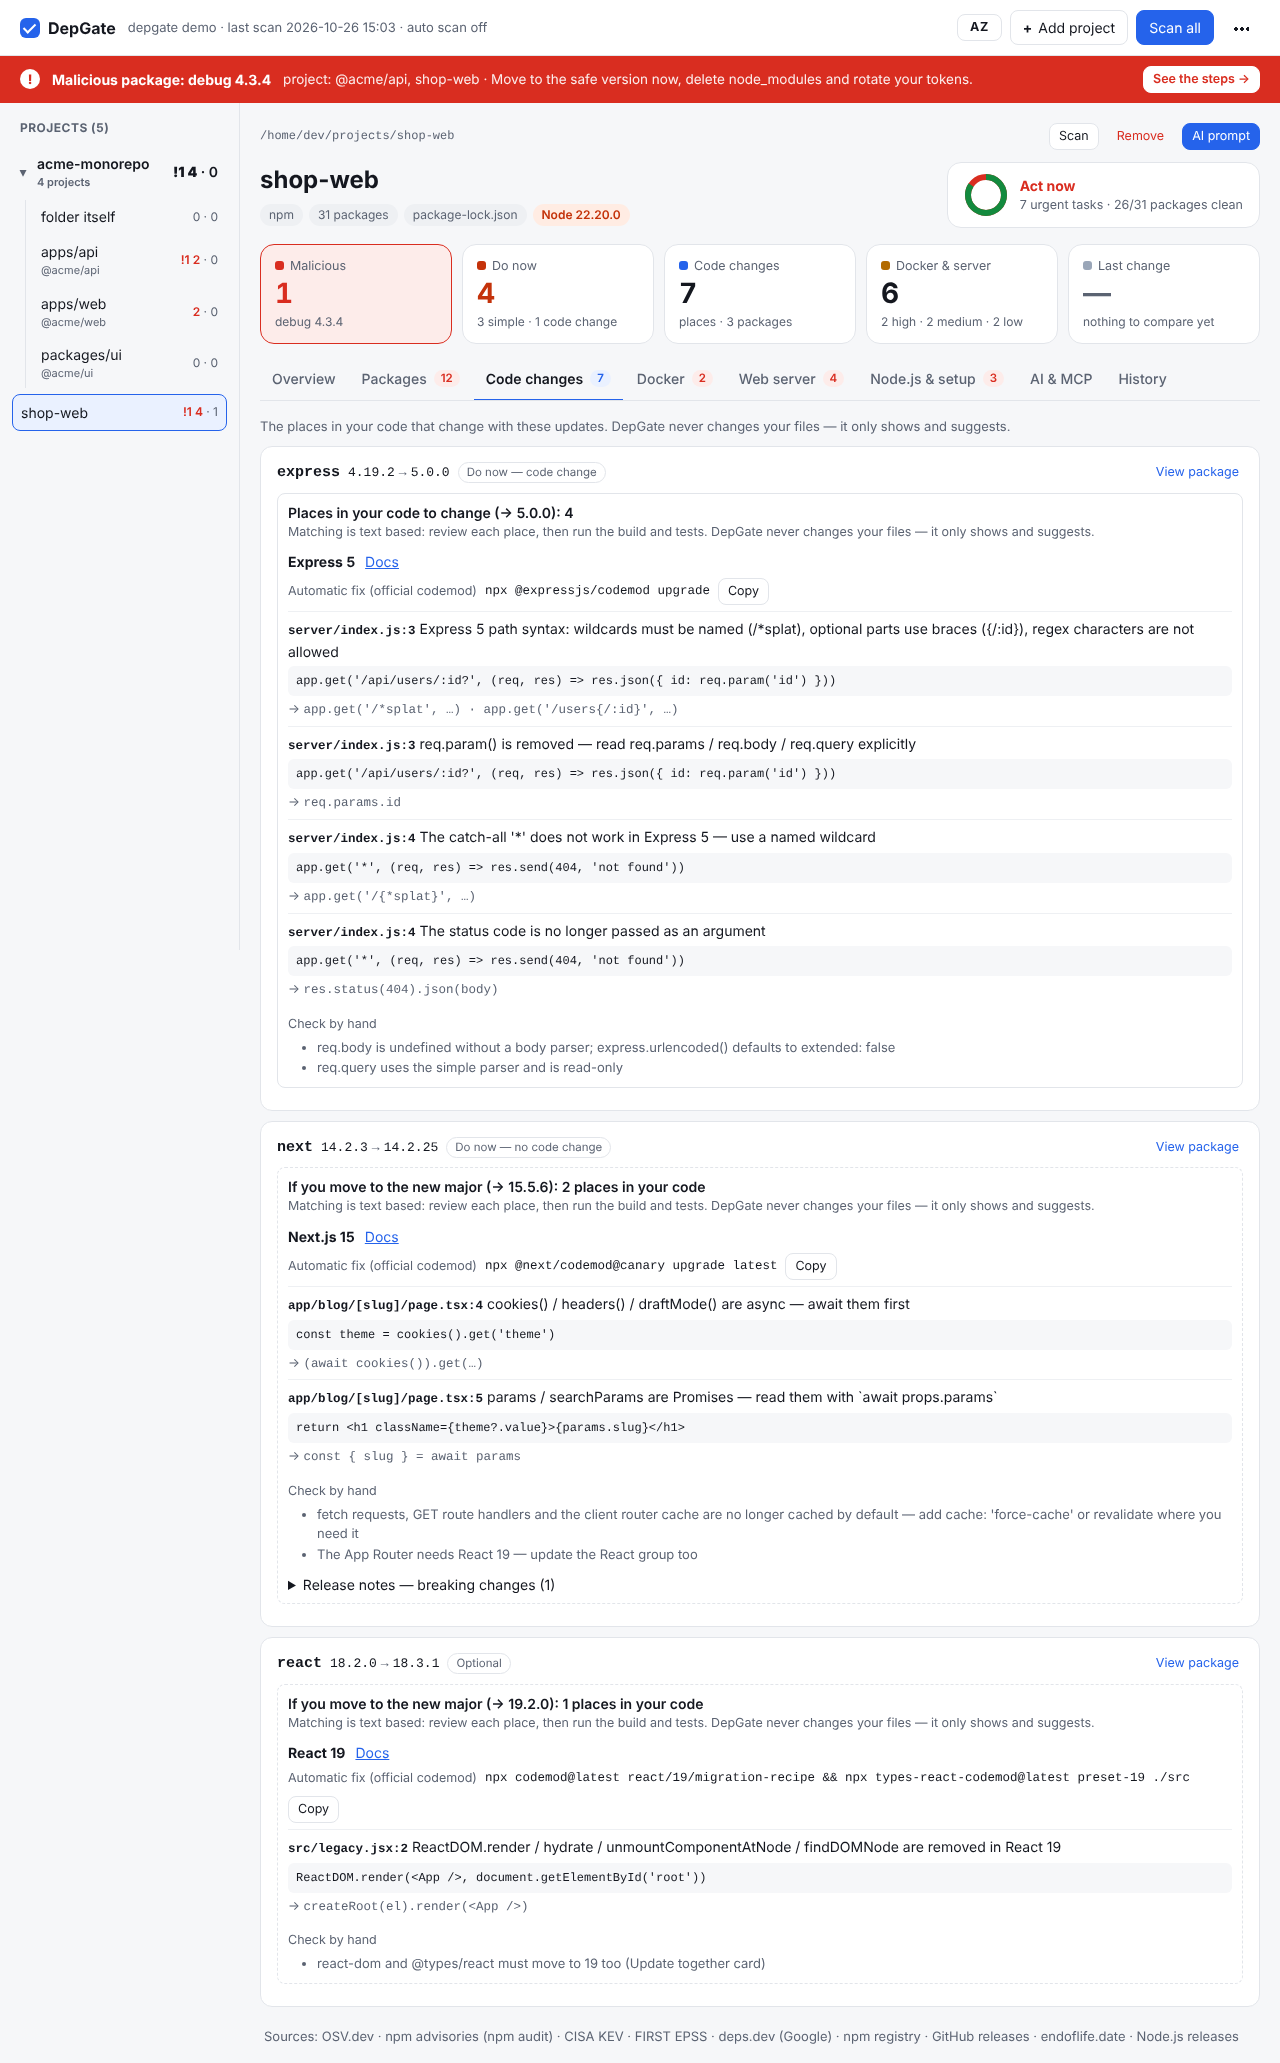
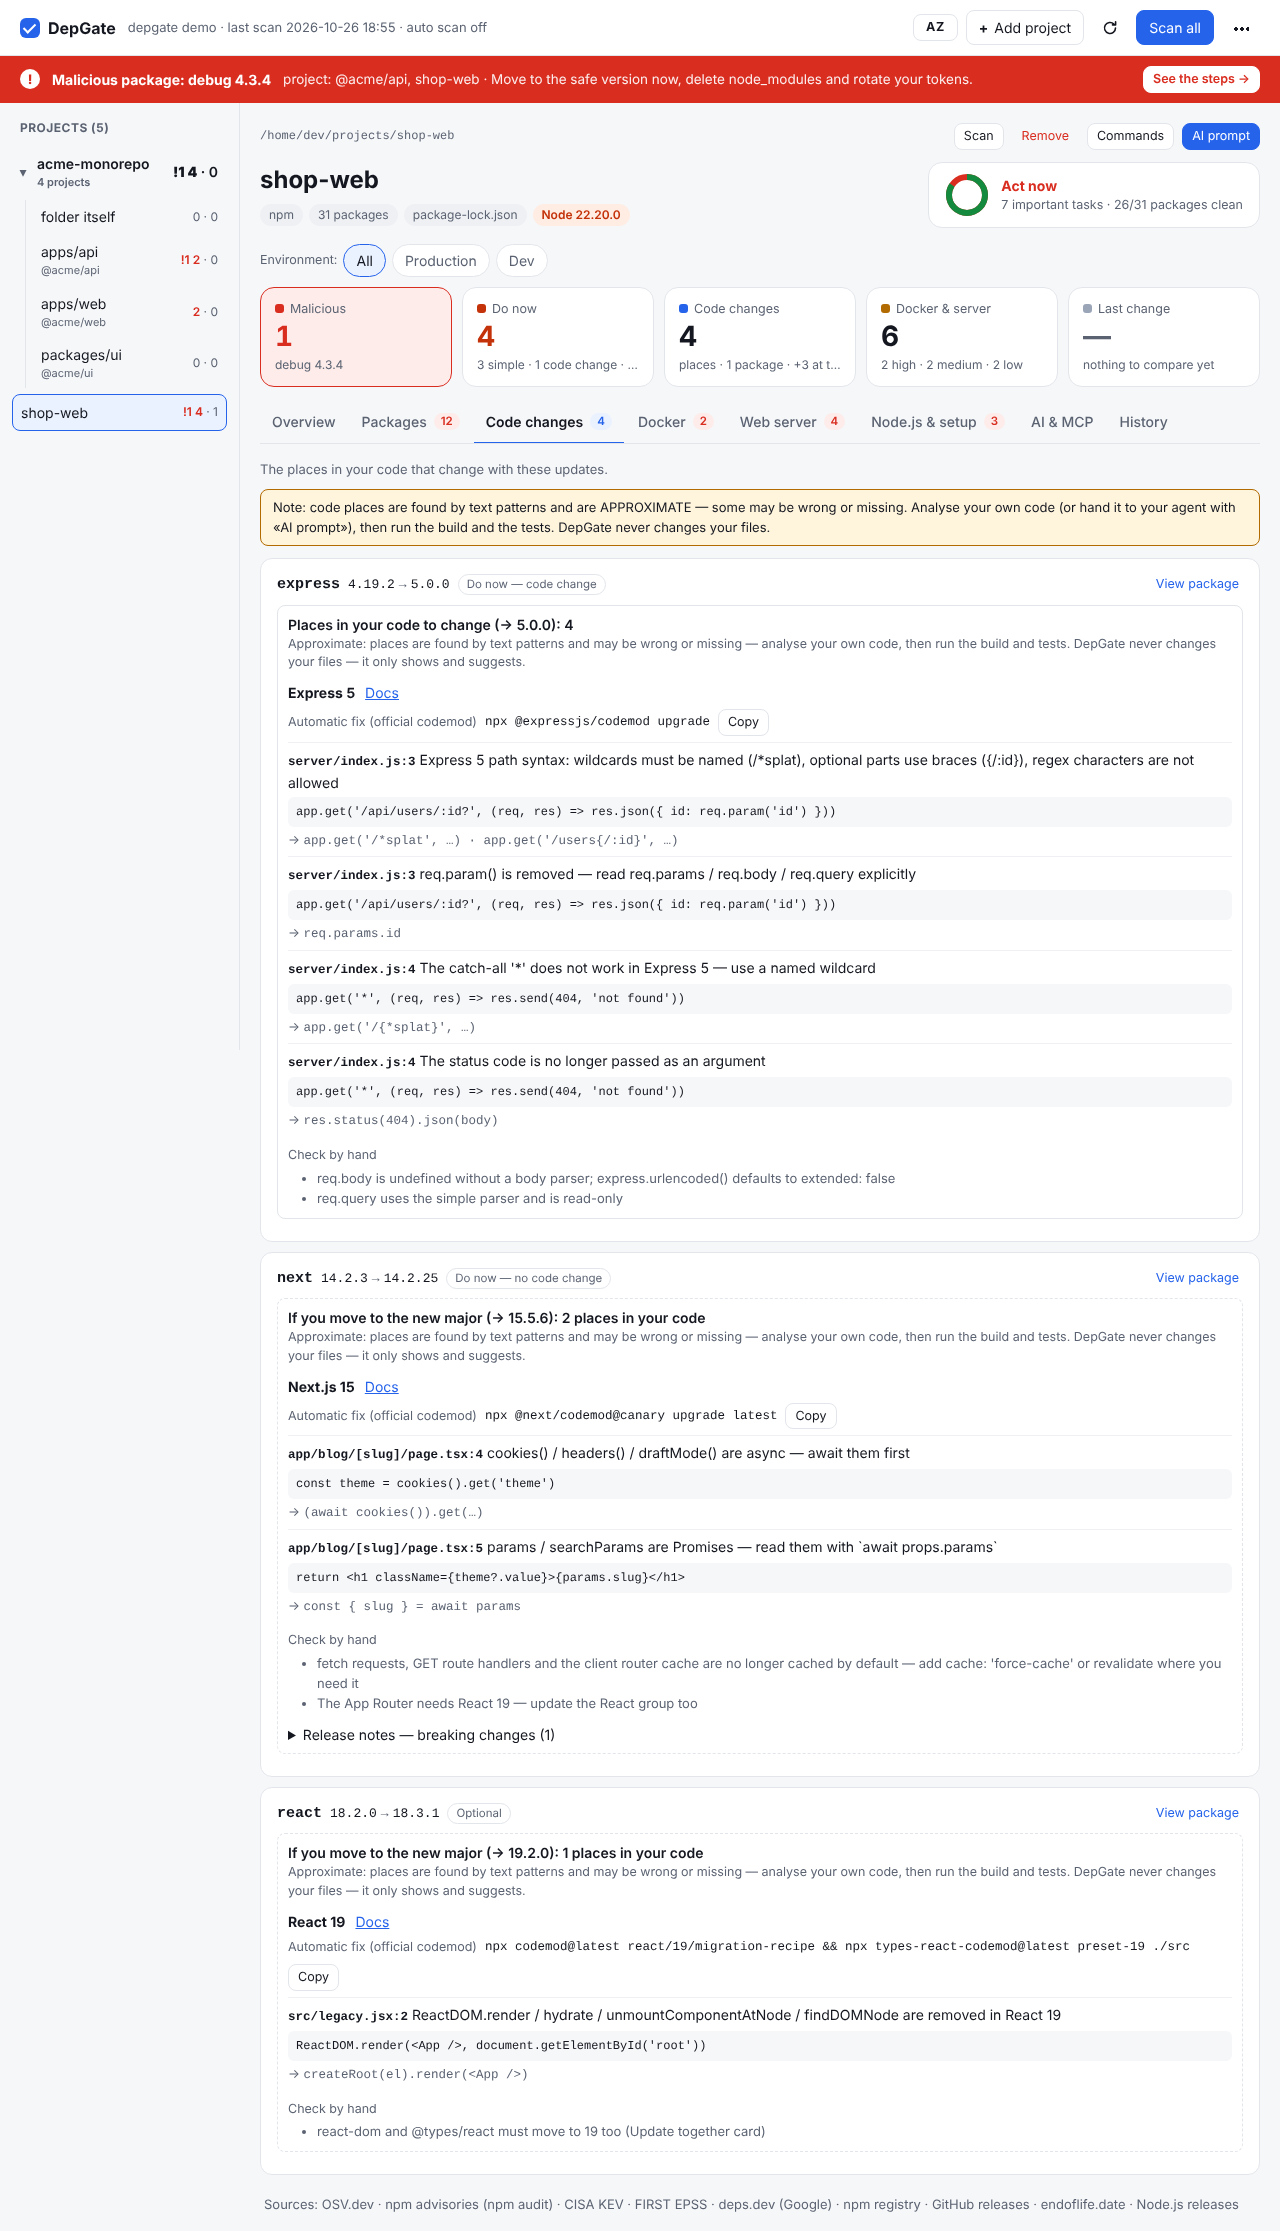
0.16.1: new README screenshots; singular wording in History
Screenshots (EN and AZ) show the environment switch, AI work, and scans and git
commits on one History timeline. Taken on the neutral demo projects.

Claude-Session: https://claude.ai/code/session_01RC5sxXsnmjCqEpypdegVQc

diff --git a/internal/web/ui/app.js b/internal/web/ui/app.js
@@ -500,6 +500,8 @@
     pkTrans: ["dolayı paketlər: {0}", "transitive packages: {0}"],
     pkMore: ["… və daha {0} (saxlanmayıb)", "… and {0} more (not stored)"],
     pkN: ["{0} paket dəyişib", "{0} packages changed"],
+    pkN1: ["1 paket dəyişib", "1 package changed"],
+    pkDownN1: ["1 köhnə versiyaya qayıdıb", "1 back to an older version"],
     pkDownN: ["{0} köhnə versiyaya qayıdıb", "{0} back to an older version"],
     pkUp: ["yeniləndi", "updated"],
     pkDown: ["köhnəyə qayıdıb", "older version"],
@@ -1449,7 +1451,7 @@
     const cs = (p && p.c) || [];
     if (!cs.length) return null;
     const down = cs.filter((c) => c.k === "down").length;
-    return [el("span", { class: "chip" }, t("pkN", cs.length + (p.more || 0))), down ? el("span", { class: "chip warn" }, t("pkDownN", down)) : null];
+    return [el("span", { class: "chip" }, tn("pkN", cs.length + (p.more || 0))), down ? el("span", { class: "chip warn" }, tn("pkDownN", down)) : null];
   }
   function pkgList(p) {
     const cs = (p && p.c) || [];

diff --git a/README.az.md b/README.az.md
@@ -80,8 +80,8 @@ Qovluqlar və monorepo-lar üçün layihələr cədvəli (trend, ən köhnə aç
 | Paketlər | Kod dəyişiklikləri |
 |---|---|
 | <img src="docs/packages-az.png" alt="Açılmış paket sətri: nə tapılıb və nə etməli" width="420"> | <img src="docs/code-changes-az.png" alt="Yeniləmə üçün kodda dəyişməli yerlər" width="420"> |
-| **Tarixçə** | **AI agent qoşulması** |
-| <img src="docs/history-az.png" alt="Skanların müqayisəsi və AI agentlərin etdikləri" width="420"> | <img src="docs/mcp-az.png" alt="Agentə görə MCP qoşulması" width="420"> |
+| **Tarixçə** | **AI və MCP** |
+| <img src="docs/history-az.png" alt="Skanlar və git commit-ləri bir xətt üzərində, AI işləri və göstəricilər" width="420"> | <img src="docs/mcp-az.png" alt="AI işləri: agentin götürdüyü tapşırıqlar və DepGate-in təsdiqlədikləri" width="420"> |
 
 ## AI agentlər (MCP)
 

diff --git a/README.md b/README.md
@@ -80,8 +80,8 @@ Folders and monorepos get one merged page with a table of their projects (trend,
 | Packages | Code changes |
 |---|---|
 | <img src="docs/packages.png" alt="A package row opened: what was found and what to do" width="420"> | <img src="docs/code-changes.png" alt="Places in the code to change for an upgrade" width="420"> |
-| **History** | **AI agent setup** |
-| <img src="docs/history.png" alt="Scans compared and what AI agents did" width="420"> | <img src="docs/mcp.png" alt="MCP setup per agent" width="420"> |
+| **History** | **AI & MCP** |
+| <img src="docs/history.png" alt="Scans and git commits on one timeline, AI work and indicators" width="420"> | <img src="docs/mcp.png" alt="AI work: the tasks an agent took on and what DepGate verified" width="420"> |
 
 ## AI agents (MCP)
 
